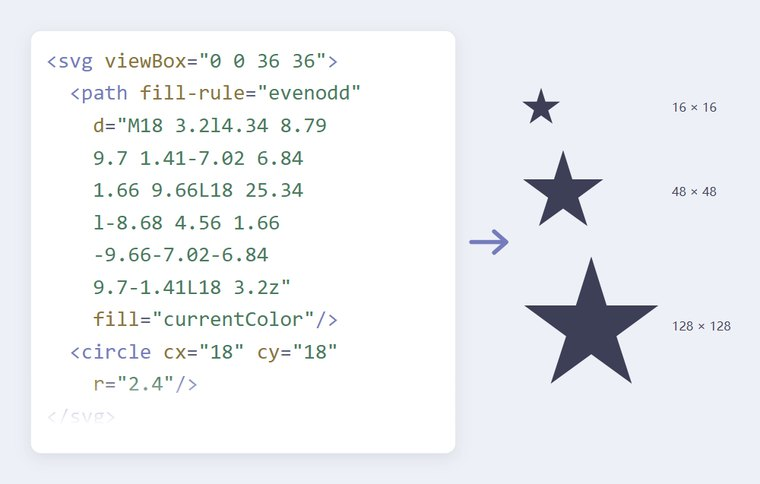
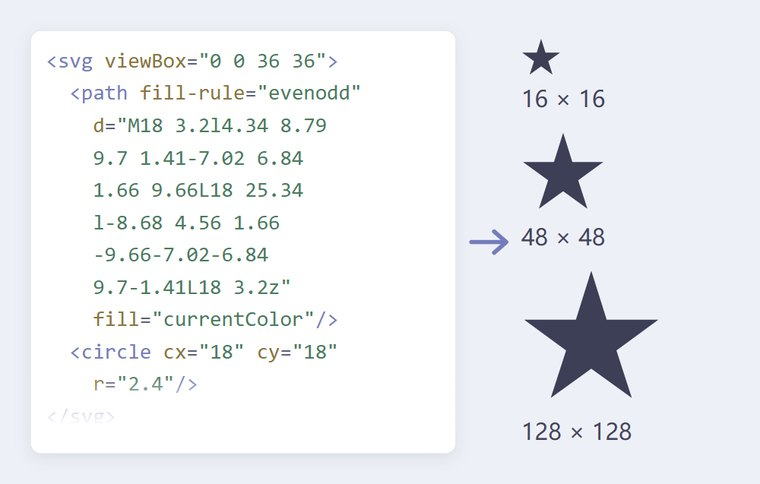
首页工具描述逐条核对 + 文本转化补大小写 + 元素周期表缩略图（v1.66.0）
- 全站 17 条工具描述逐条对页面核实，修 10 处：
  删掉 6 条与页面不符或同义反复的（贪吃蛇 / 俄罗斯方块 / 2048 / 数字华容道 / SVG转图标 / 元素周期表）；
  改 4 条 ——
    中国象棋「与电脑对战的中式象棋」→「双人对弈的中式象棋，可摆残局、记谱」
    五子棋「与电脑对战的五子棋」→「双人对弈的五子棋」（这两个游戏都没有 AI，grep 零命中）
    文本转化「编码解码、去重、大小写、查找替换」→「编码解码、哈希、大小写转换」（去重/查找替换不存在）
    元素周期表「查元素性质、物态与用途」→ 删除（元素数据里没有「用途」）
    符号「Unicode 特殊符号查找与一键复制」→「Unicode 字符大全，按标签浏览与一键复制」（写窄了）
    数字转化「二进制、十六进制等进制互转」→「进制互转、中文与通讯数字写法」（漏了半数的结果项）
- 文本转化页补「转大写 / 转小写」两个结果（页面原本没有大小写转换）
- SVG转图标宣传图：星星尺寸标签 16px → 30px（卡片上 4.8px → 9px，原来看不清），重出图
- 元素周期表缩略图：第四路画法 —— 搬真实 DOM + 搬真实 CSS，金属炫光 / 气态虚线框 + 蒸汽、
  液态固态状态边框、放射性图标、铁磁性磁力线、筛选半透明全部由原始样式渲染，一个都不手抄。
  生成页放 tmp/（不进版本库，CSS 是复制来的），配方与踩过的坑记入 docs/宣传图/README.md
- 清理 tmp/ 及各子项目 tmp/ 的历届草稿，约 73 MB（均未被 git 跟踪）

diff --git a/resources/tools.js b/resources/tools.js
@@ -10,45 +10,45 @@
 
 	root.TOOLS = [
 		/*---------- 文本与编码 ----------*/
-		{ cat: '文本与编码', icon: '🔤', name: '文本转化', desc: '编码解码、去重、大小写、查找替换',
+		{ cat: '文本与编码', icon: '🔤', name: '文本转化', desc: '编码解码、哈希、大小写转换',
 			href: '编解码/文本转化.html', thumb: '编解码/thumbnails/文本转化.jpg' },
-		{ cat: '文本与编码', icon: '🔢', name: '数字转化', desc: '二进制、十六进制等进制互转',
+		{ cat: '文本与编码', icon: '🔢', name: '数字转化', desc: '进制互转、中文与通讯数字写法',
 			href: '编解码/数字转化.html', thumb: '编解码/thumbnails/数字转化.jpg' },
-		{ cat: '文本与编码', icon: '⬡', name: 'SVG转图标', desc: '把 SVG 转成 PNG 图片和图标',
+		{ cat: '文本与编码', icon: '⬡', name: 'SVG转图标', desc: '',
 			href: '编解码/svg转图标.html', thumb: '编解码/thumbnails/svg转图标.jpg' },
 
 		/*---------- 字符与图形 ----------*/
-		{ cat: '字符与图形', icon: '✳', name: '符号', desc: 'Unicode 特殊符号查找与一键复制',
+		{ cat: '字符与图形', icon: '✳', name: '符号', desc: 'Unicode 字符大全，按标签浏览与一键复制',
 			href: '符号/符号.html', thumb: '符号/thumbnails/符号.jpg' },
 		{ cat: '字符与图形', icon: '▦', name: '格子盘', desc: '画网格并编辑每格内容',
 			href: '格子盘.html', thumb: '' },
 
 		/*---------- 学科学习 ----------*/
-		{ cat: '学科学习', icon: '⚛', name: '元素周期表', desc: '查元素性质、物态与用途',
+		{ cat: '学科学习', icon: '⚛', name: '元素周期表', desc: '',
 			href: '化学/元素周期表.html', thumb: '化学/thumbnails/元素周期表.jpg' },
 		{ cat: '学科学习', icon: '🅰', name: '拼音', desc: '声母韵母组合拼读练习',
 			href: '拼音/拼音.html', thumb: '拼音/thumbnails/拼音.jpg' },
 
 		/*---------- 游戏 ----------*/
-		{ cat: '游戏', icon: '♟', name: '中国象棋', desc: '与电脑对战的中式象棋',
+		{ cat: '游戏', icon: '♟', name: '中国象棋', desc: '双人对弈的中式象棋，可摆残局、记谱',
 			href: '游戏/中国象棋/中国象棋.html', thumb: '游戏/中国象棋/thumbnails/中国象棋.jpg' },
-		{ cat: '游戏', icon: '⚪', name: '五子棋', desc: '与电脑对战的五子棋',
+		{ cat: '游戏', icon: '⚪', name: '五子棋', desc: '双人对弈的五子棋',
 			href: '游戏/五子棋/gobang.html', thumb: '' },
-		{ cat: '游戏', icon: '🧱', name: '俄罗斯方块', desc: '经典方块消除',
+		{ cat: '游戏', icon: '🧱', name: '俄罗斯方块', desc: '',
 			href: '游戏/俄罗斯方块.html', thumb: '' },
-		{ cat: '游戏', icon: '🐍', name: '贪吃蛇', desc: '经典贪吃蛇',
+		{ cat: '游戏', icon: '🐍', name: '贪吃蛇', desc: '',
 			href: '游戏/贪吃蛇/贪吃蛇.html', thumb: '' },
-		{ cat: '游戏', icon: '🎲', name: '2048', desc: '滑动合并数字方块',
+		{ cat: '游戏', icon: '🎲', name: '2048', desc: '',
 			href: '游戏/2048/2048.html', thumb: '' },
 		{ cat: '游戏', icon: '🟩', name: '2048蛇', desc: '2048 与贪吃蛇合体',
 			href: '游戏/2048蛇/2048蛇.html', thumb: '游戏/2048蛇/thumbnails/2048蛇.jpg' },
-		{ cat: '游戏', icon: '🧩', name: '2048方块', desc: '2048 与消除玩法合体',
+		{ cat: '游戏', icon: '🧩', name: '2048方块', desc: '2048 与俄罗斯方块合体（落块、合并、满行消除）',
 			href: '游戏/2048方块/2048方块.html', thumb: '游戏/2048方块/thumbnails/2048方块.jpg' },
 		{ cat: '游戏', icon: '💡', name: '点灯', desc: '点一下连带翻转，把灯全点亮',
 			href: '游戏/点灯.html', thumb: '' },
-		{ cat: '游戏', icon: '🔀', name: '数字华容道', desc: '数字滑块拼图',
+		{ cat: '游戏', icon: '🔀', name: '数字华容道', desc: '',
 			href: '游戏/数字华容道.html', thumb: '游戏/thumbnails/数字华容道.jpg' },
-		{ cat: '游戏', icon: '✨', name: '星连星', desc: '同色连线消除的益智游戏',
+		{ cat: '游戏', icon: '✨', name: '星连星', desc: '同色星连线填满棋盘的益智游戏',
 			href: '游戏/星连星/星连星.html', thumb: '' }
 	];
 })(typeof self !== 'undefined' ? self : this);

diff --git a/index.html b/index.html
@@ -31,14 +31,14 @@
 			<div class="shot box"><img class="tool thumb" src="编解码/thumbnails/文本转化.jpg" alt="文本转化"></div>
 			<div class="info box">
 				<b class="tool name">文本转化</b>
-				<em class="tool desc">编码解码、去重、大小写、查找替换</em>
+				<em class="tool desc">编码解码、哈希、大小写转换</em>
 			</div>
 		</a>
 		<a class="tool card" data-cat="文本与编码" href="编解码/数字转化.html">
 			<div class="shot box"><img class="tool thumb" src="编解码/thumbnails/数字转化.jpg" alt="数字转化"></div>
 			<div class="info box">
 				<b class="tool name">数字转化</b>
-				<em class="tool desc">二进制、十六进制等进制互转</em>
+				<em class="tool desc">进制互转、中文与通讯数字写法</em>
 			</div>
 		</a>
 		<a class="tool card" data-cat="文本与编码" href="编解码/svg转图标.html">
@@ -47,7 +47,6 @@
 			</div>
 			<div class="info box">
 				<b class="tool name">SVG转图标</b>
-				<em class="tool desc">把 SVG 转成 PNG 图片和图标</em>
 			</div>
 		</a>
 		<a class="tool card" data-cat="字符与图形" href="符号/符号.html">
@@ -56,7 +55,7 @@
 			</div>
 			<div class="info box">
 				<b class="tool name">符号</b>
-				<em class="tool desc">Unicode 特殊符号查找与一键复制</em>
+				<em class="tool desc">Unicode 字符大全，按标签浏览与一键复制</em>
 			</div>
 		</a>
 		<a class="tool card" data-cat="字符与图形" href="格子盘.html">
@@ -72,7 +71,6 @@
 			</div>
 			<div class="info box">
 				<b class="tool name">元素周期表</b>
-				<em class="tool desc">查元素性质、物态与用途</em>
 			</div>
 		</a>
 		<a class="tool card" data-cat="学科学习" href="拼音/拼音.html">
@@ -90,35 +88,32 @@
 			</div>
 			<div class="info box">
 				<b class="tool name">中国象棋</b>
-				<em class="tool desc">与电脑对战的中式象棋</em>
+				<em class="tool desc">双人对弈的中式象棋，可摆残局、记谱</em>
 			</div>
 		</a>
 		<a class="tool card" data-cat="游戏" href="游戏/五子棋/gobang.html">
 			<div class="shot box"><span class="tool icon">⚪</span></div>
 			<div class="info box">
 				<b class="tool name">五子棋</b>
-				<em class="tool desc">与电脑对战的五子棋</em>
+				<em class="tool desc">双人对弈的五子棋</em>
 			</div>
 		</a>
 		<a class="tool card" data-cat="游戏" href="游戏/俄罗斯方块.html">
 			<div class="shot box"><span class="tool icon">🧱</span></div>
 			<div class="info box">
 				<b class="tool name">俄罗斯方块</b>
-				<em class="tool desc">经典方块消除</em>
 			</div>
 		</a>
 		<a class="tool card" data-cat="游戏" href="游戏/贪吃蛇/贪吃蛇.html">
 			<div class="shot box"><span class="tool icon">🐍</span></div>
 			<div class="info box">
 				<b class="tool name">贪吃蛇</b>
-				<em class="tool desc">经典贪吃蛇</em>
 			</div>
 		</a>
 		<a class="tool card" data-cat="游戏" href="游戏/2048/2048.html">
 			<div class="shot box"><span class="tool icon">🎲</span></div>
 			<div class="info box">
 				<b class="tool name">2048</b>
-				<em class="tool desc">滑动合并数字方块</em>
 			</div>
 		</a>
 		<a class="tool card" data-cat="游戏" href="游戏/2048蛇/2048蛇.html">
@@ -136,7 +131,7 @@
 			</div>
 			<div class="info box">
 				<b class="tool name">2048方块</b>
-				<em class="tool desc">2048 与消除玩法合体</em>
+				<em class="tool desc">2048 与俄罗斯方块合体（落块、合并、满行消除）</em>
 			</div>
 		</a>
 		<a class="tool card" data-cat="游戏" href="游戏/点灯.html">
@@ -152,14 +147,13 @@
 			</div>
 			<div class="info box">
 				<b class="tool name">数字华容道</b>
-				<em class="tool desc">数字滑块拼图</em>
 			</div>
 		</a>
 		<a class="tool card" data-cat="游戏" href="游戏/星连星/星连星.html">
 			<div class="shot box"><span class="tool icon">✨</span></div>
 			<div class="info box">
 				<b class="tool name">星连星</b>
-				<em class="tool desc">同色连线消除的益智游戏</em>
+				<em class="tool desc">同色星连线填满棋盘的益智游戏</em>
 			</div>
 		</a>
 	</div>

diff --git a/docs/宣传图/svg转图标.html b/docs/宣传图/svg转图标.html
@@ -72,17 +72,23 @@ body {
 /*---------- 右：同一图标，三档尺寸 ----------*/
 .sizes {
 	flex: 1;
-	display: grid;
-	grid-template-columns: auto 1fr;
-	align-content: center;
-	align-items: center;
-	justify-items: start;
-	gap: 30px 14px;
+	display: flex;
+	flex-direction: column;
+	justify-content: center;
+	align-items: flex-start;
+	gap: 26px;
 	color: #3d3f57;
 }
 
+.sizes .one {
+	display: flex;
+	flex-direction: column;
+	align-items: flex-start;
+	gap: 8px;
+}
+
 .sizes .label {
-	font-size: 16px;
+	font-size: 30px;
 	white-space: nowrap;
 	color: #45455d;
 }
@@ -118,12 +124,18 @@ body {
 	</div>
 
 	<div class="sizes">
-		<div class="star" style="width:52px;height:52px"></div>
-		<span class="label">16 × 16</span>
-		<div class="star" style="width:110px;height:110px"></div>
-		<span class="label">48 × 48</span>
-		<div class="star" style="width:184px;height:184px"></div>
-		<span class="label">128 × 128</span>
+		<div class="one">
+			<div class="star" style="width:52px;height:52px"></div>
+			<span class="label">16 × 16</span>
+		</div>
+		<div class="one">
+			<div class="star" style="width:110px;height:110px"></div>
+			<span class="label">48 × 48</span>
+		</div>
+		<div class="one">
+			<div class="star" style="width:184px;height:184px"></div>
+			<span class="label">128 × 128</span>
+		</div>
 	</div>
 </body>
 </html>

diff --git a/编解码/文本转化.html b/编解码/文本转化.html
@@ -242,6 +242,14 @@
 					return '解压失败或非gzip编码';
 				}
 			}
+		},
+		'转大写': {
+			value: '',
+			convert: str => str.toUpperCase()
+		},
+		'转小写': {
+			value: '',
+			convert: str => str.toLowerCase()
 		}
 	};
 

diff --git a/docs/宣传图/README.md b/docs/宣传图/README.md
@@ -57,6 +57,26 @@
 2. `.v` 一旦开了 `overflow: hidden`，省略号的裁切基准就从"卡片边框"变成"内容框"——原本靠溢进内边距才显示完整的短值会被误截。
    （2026-10-10 数字转化的「一千二百三十四 元」就被截成了「一千二百三十四 …」。）**值装得下的那张别开省略号。**
 
+### 变体：元素周期表（2026-10-10）——第四路：搬真实 DOM + 搬真实 CSS
+
+`化学/元素周期表.html` 跟前三路都不同：**不重画、也不整页截图，而是把真实页面的 DOM 和 CSS 搬进一个临时页**，让浏览器自己渲。所有特效——金属炫光、气态虚线框＋蒸汽粒子、液态/固态状态边框、放射性图标、铁磁性磁力线、筛选半透明——**一个都不用抄，也不会抄漏**。
+
+生成页放在 `tmp/` 下（`tmp/元素周期表-组装.html`），**不进版本库**：CSS 是从页面里复制来的，存档等于在仓库里放一份副本。
+
+**做法：**
+
+1. **CSS 原样搬** —— 脚本读 `化学/元素周期表.html`，把它 `<head>` 里那段含 `--period1-row-offset` 的内联 `<style>`（约 17.8 KB）整段复制过来，**一字不改**。
+2. **DOM 原样搬** —— 先在真实页面上把温度设成 **1904 ℃**、勾上 **碱金属 + 过渡金属**，再抠这些节点的 `outerHTML`（去注释）：
+   - 第 1~7 周期、前列的元素格（连同 `vapor` 里 8 个粒子、`辐射-icon`、`人造-icon`、磁力线 SVG、内联底色与 opacity）
+   - 详情卡 `.element.detail.area` —— 它**不是浮层，是 article 里的一个 grid item**（CSS 定位成 `grid-column: 4/14`、`grid-row: 1/4`）
+   - 「镧系标签」「锕系标签」两个占位格（保持收起状态）
+3. **外层画布**（唯一新写的部分）—— 260×166、`zoom: 3`、左侧竖温度计＋筛选栏、右侧一个 **208×158 裁切窗口**。
+4. **裁切** —— `article { zoom: 0.308 }`（每格约 24px）；`main` 要撑到 `width: 1200px`，否则 article 的 bisque 底色会被窗口宽度限死、右边和下边露白；`left: 0`（左沿靠「周期序号」那一列当边距，把里面的数字 `display: none` 藏掉）；`top: -2px`。
+
+⚠ **两个变量必须显式补**：`--period1-row-offset: 0` 和 `--element-gap: 8px`。真实页面把它们定义在 `body > main` 上，而这里的 `main` 在裁切窗口里、继承不到，会走回退值——行距一压，跨 3 行的详情卡就矮 8px、「活泼非金属」标签从卡片下沿冒出来。**别为了多塞一列去改小 `--element-gap`**，报应就在详情卡上。
+
+⚠ **两处有意偏离页面**：① 碱金属 5 格（锂/钠/钾/铷/铯）去掉内联 `opacity: 0.5`——抠图那次碱金属没勾选，但它们在当前筛选里是选中的；② `.element.detail.card .tag.list { transform: translateY(-8px) }` 把标签条上提几像素（原位置几乎贴卡片下沿；用 `margin-bottom` 没用，卡片是 flex column + `justify-content: normal`，标签排在正文之后，加下边距只会让内容更高、位置不动）。
+
 ## 怎么出图
 
 1. 起本地静态服务（`python -m http.server`），浏览器打开本目录下的 `<工具名>.html`
@@ -99,4 +119,5 @@
 | `符号.html` | 符号/符号.html | 定稿（缩小复刻画法，见上） |
 | `数字转化.html` | 编解码/数字转化.html | 定稿（格式矩阵 + 右缘裁切，见上） |
 | `文本转化.html` | 编解码/文本转化.html | 定稿（同上） |
+| （无存档，生成页在 `tmp/`） | 化学/元素周期表.html | 定稿（第四路：搬真实 DOM + CSS，见上） |
 
